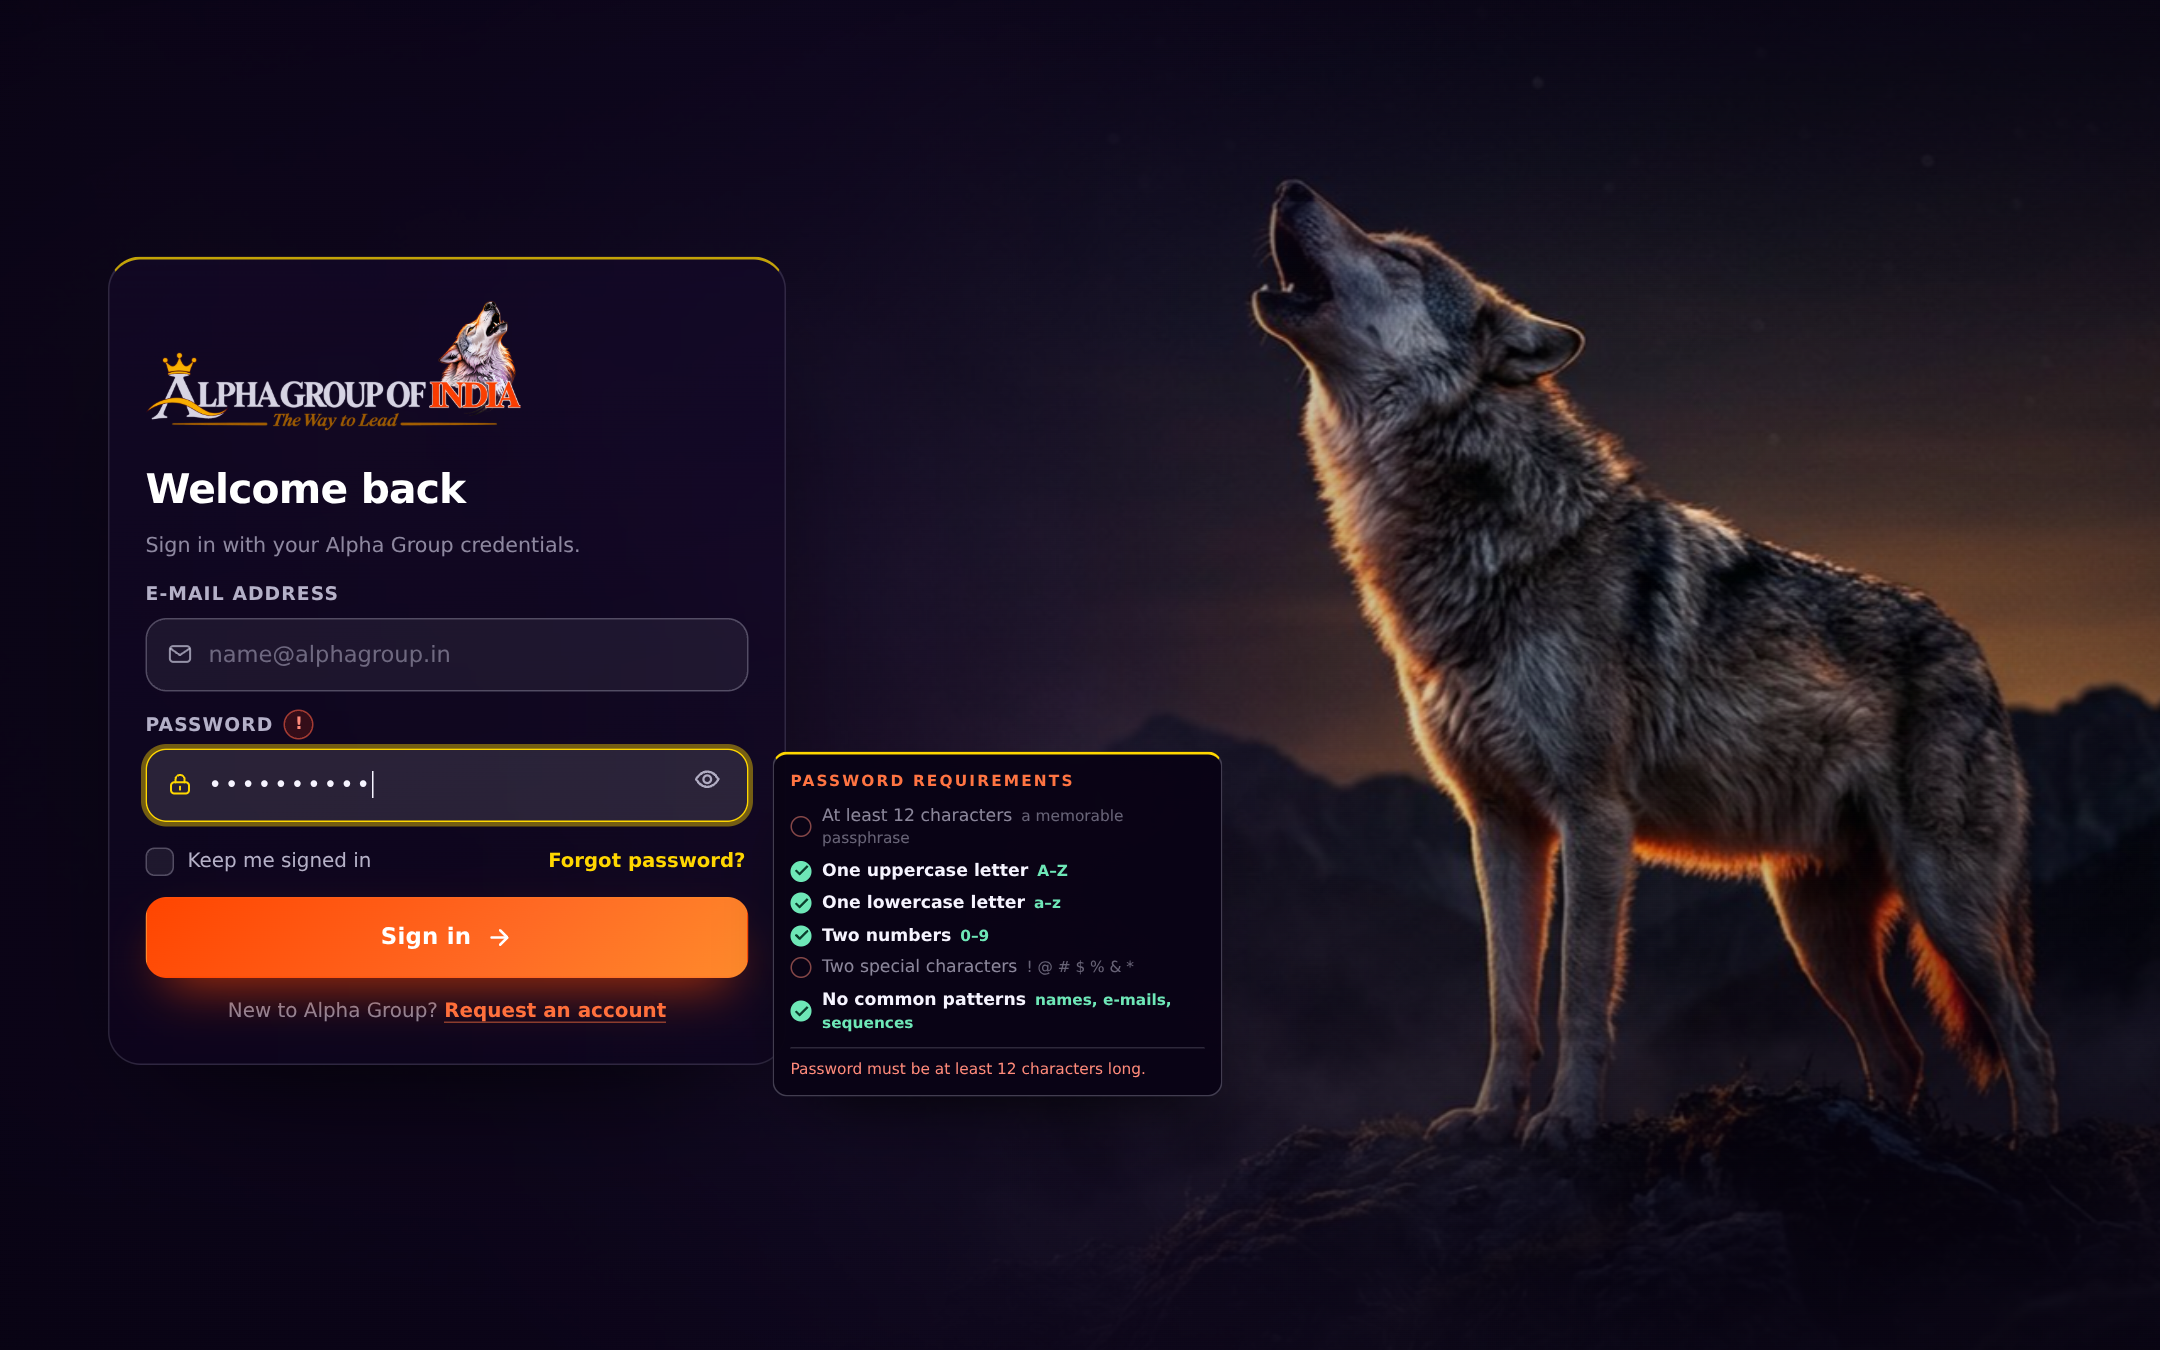
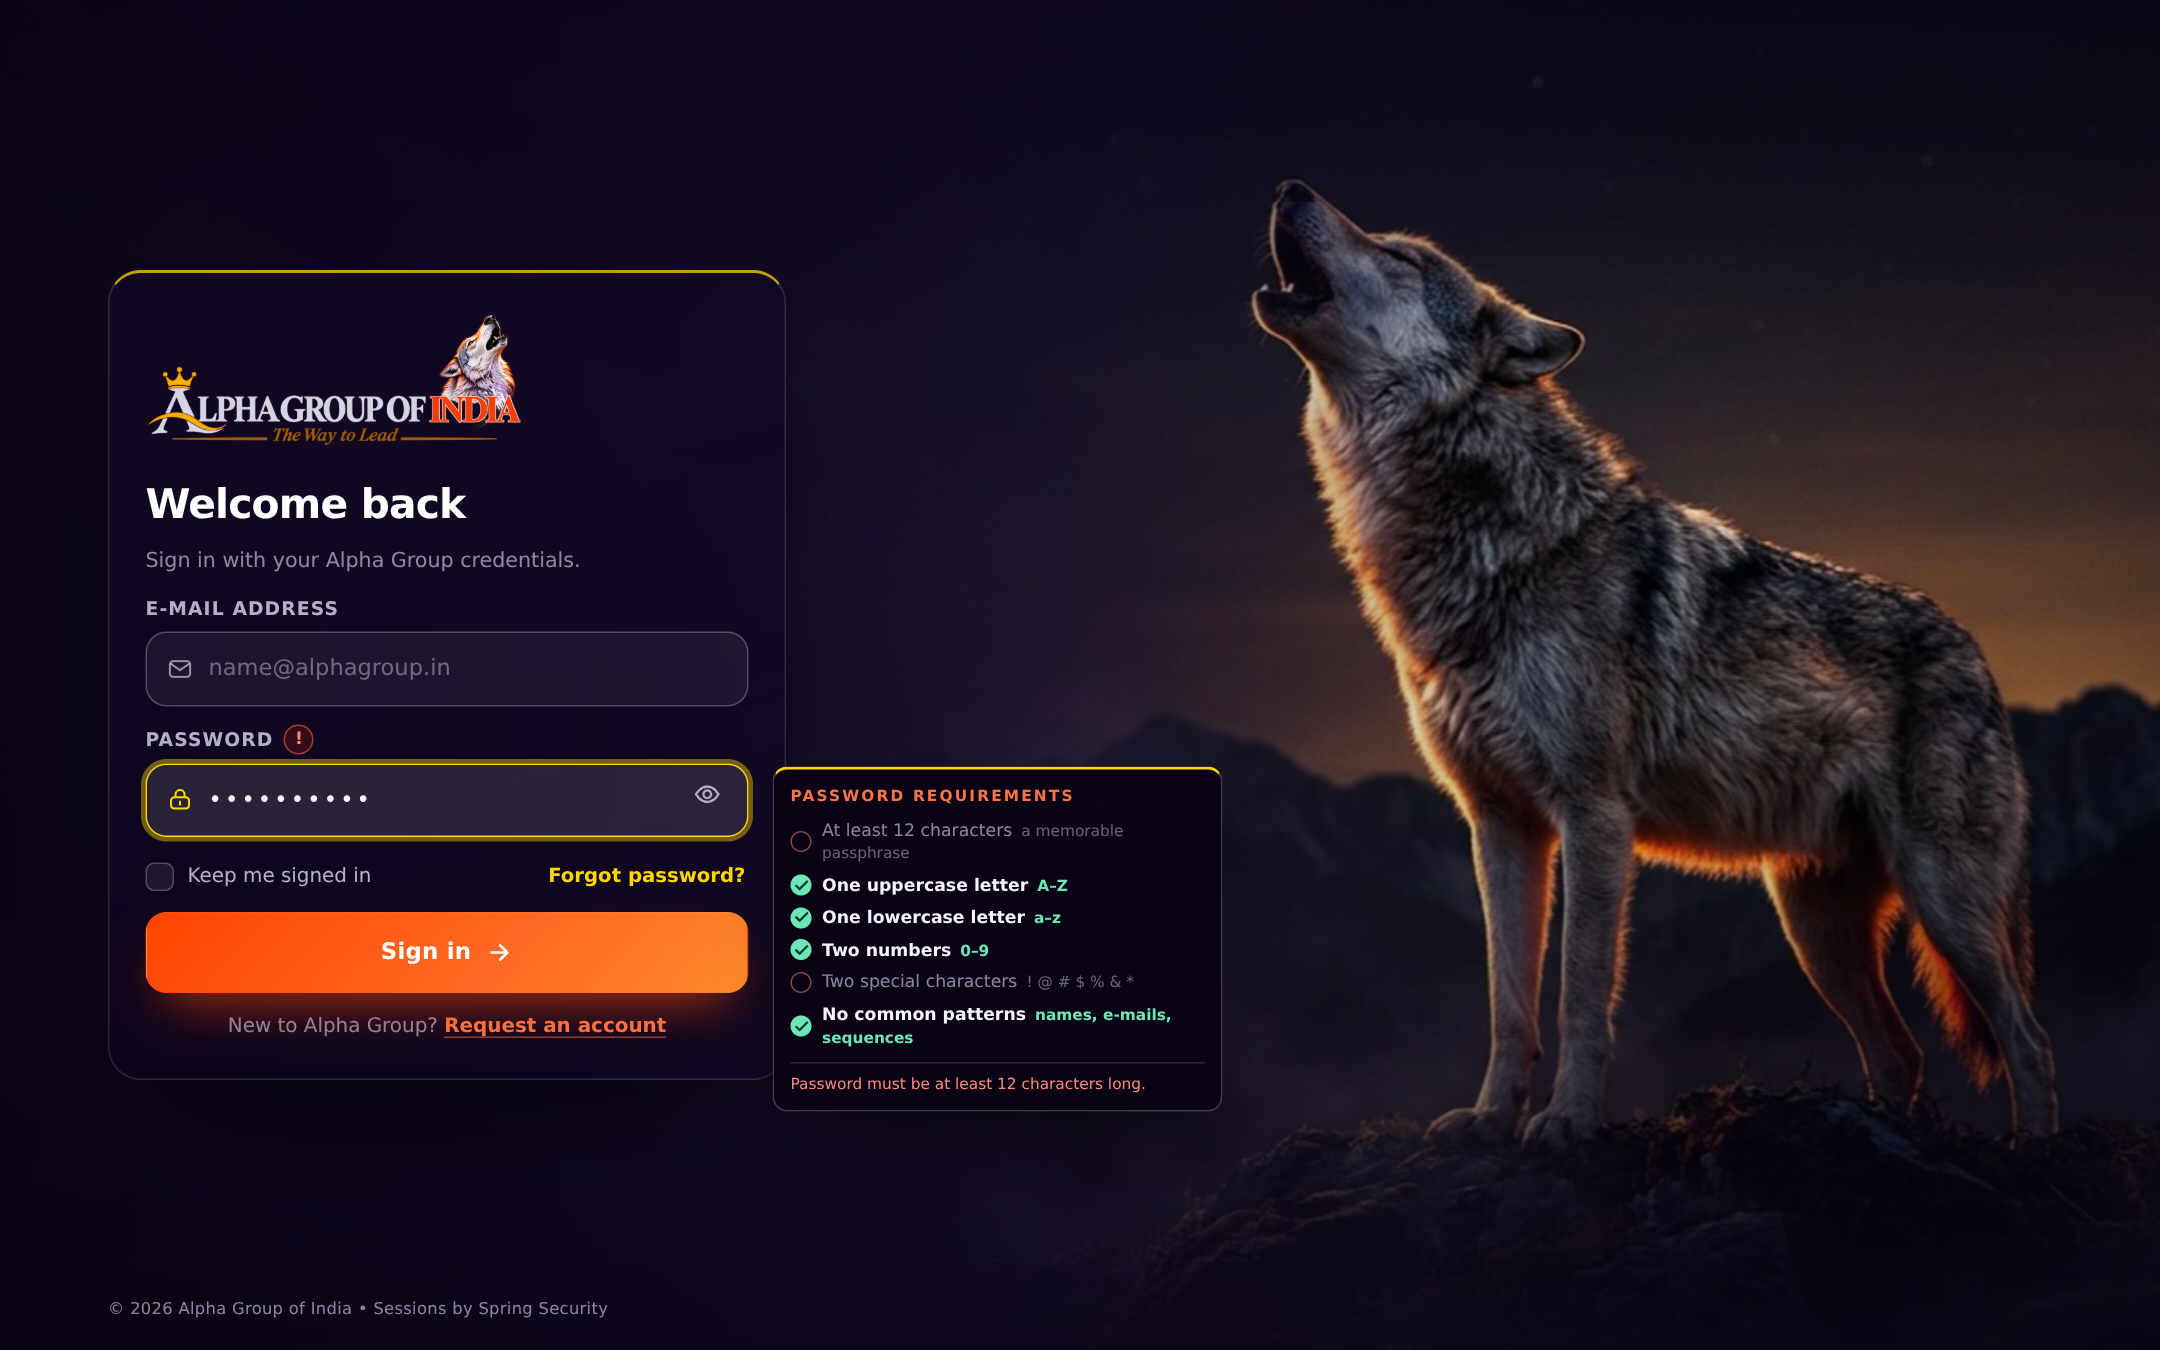
style(css): centre the sign-in panel vertically, keep the left position
Follow-up to the reverted centring commit: the panel keeps its original left
edge (x 72 at 1440, unchanged) and is now centred on the screen top to bottom.

The 19px low bias came from the footer being a flow row: the panel was centred
inside the 875px stage, not the 900px viewport. Auth pages now use a single grid
row with the footer pinned to the bottom edge and aligned to the panel's left
padding, and equal padding-block above and below.

Measured with the Java server: above/below gaps are 180/180 at 1440x900,
181/181 at 1440x800, 131/131 at 1280x700 and 147/147 at 1024x820. The CSS
"safe center" keyword keeps the top edge reachable in windows too short for the
panel. Preview images refreshed.

Changed region(s): [[0.062, 0.1867, 0.5583, 0.8089], [0.1861, 0.9644, 0.2792, 0.9956], [0.062, 0.9644, 0.1551, 0.9956]]

diff --git a/src/main/resources/static/css/app.css b/src/main/resources/static/css/app.css
@@ -124,7 +124,9 @@ ul { padding: 0; list-style: none; }
 /* Auth pages have no masthead, so the stage itself is the flexible row. */
 .page--auth {
   display: grid;
-  grid-template-rows: minmax(0, 1fr) auto;
+  /* One row: the panel is centred on the whole screen and the footer is pinned
+     to the bottom edge instead of stealing height from the centring box. */
+  grid-template-rows: minmax(0, 1fr);
   position: relative;
   isolation: isolate;
   min-height: 100vh;
@@ -193,6 +195,9 @@ ul { padding: 0; list-style: none; }
   grid-template-columns: minmax(0, 452px) minmax(0, 1fr);
   align-items: center;
   align-content: center;
+  /* `safe` keeps the top edge reachable if a very short window cannot fit the
+     panel; browsers that ignore it fall back to plain centring. */
+  align-content: safe center;
   justify-items: start;
   column-gap: clamp(24px, 6vw, 120px);
   padding: clamp(18px, 2.4vw, 34px) clamp(20px, 5vw, 72px) clamp(20px, 3vw, 40px);
@@ -208,8 +213,22 @@ ul { padding: 0; list-style: none; }
   align-content: center;
 }
 
-/* No masthead on the auth pages any more — the logo lives inside the panel. */
-.page--auth .stage { padding-top: clamp(24px, 5vh, 56px); }
+/* No masthead on the auth pages any more — the logo lives inside the panel.
+   Equal top and bottom padding keeps the panel optically centred. */
+.page--auth .stage { padding-block: clamp(20px, 3vw, 40px); }
+
+.page--auth .page-footer {
+  position: absolute;
+  left: 0;
+  right: 0;
+  bottom: 0;
+  z-index: 2;
+  /* Lined up with the panel's left edge so it reads as part of the layout. */
+  padding: 0 clamp(20px, 5vw, 72px) clamp(12px, 2vh, 20px);
+  font-size: 0.68rem;
+  letter-spacing: 0.02em;
+  color: var(--text-muted);
+}
 
 /* --------------------------------------------------------------------------
    Small shared pieces
@@ -1127,6 +1146,12 @@ code {
       linear-gradient(180deg, rgba(12, 5, 26, 0.9) 0%, rgba(14, 6, 30, 0.72) 40%,
         rgba(14, 6, 30, 0.55) 70%, rgba(10, 4, 22, 0.9) 100%);
   }
+}
+
+/* Tablet / short-desktop in one column: centre the panel when there is room,
+   but keep it anchored to the top when the viewport is too short to scroll it. */
+@media (max-width: 1024px) and (min-height: 780px) {
+  .stage { align-content: center; align-content: safe center; }
 }
 
 @media (max-width: 640px) {
